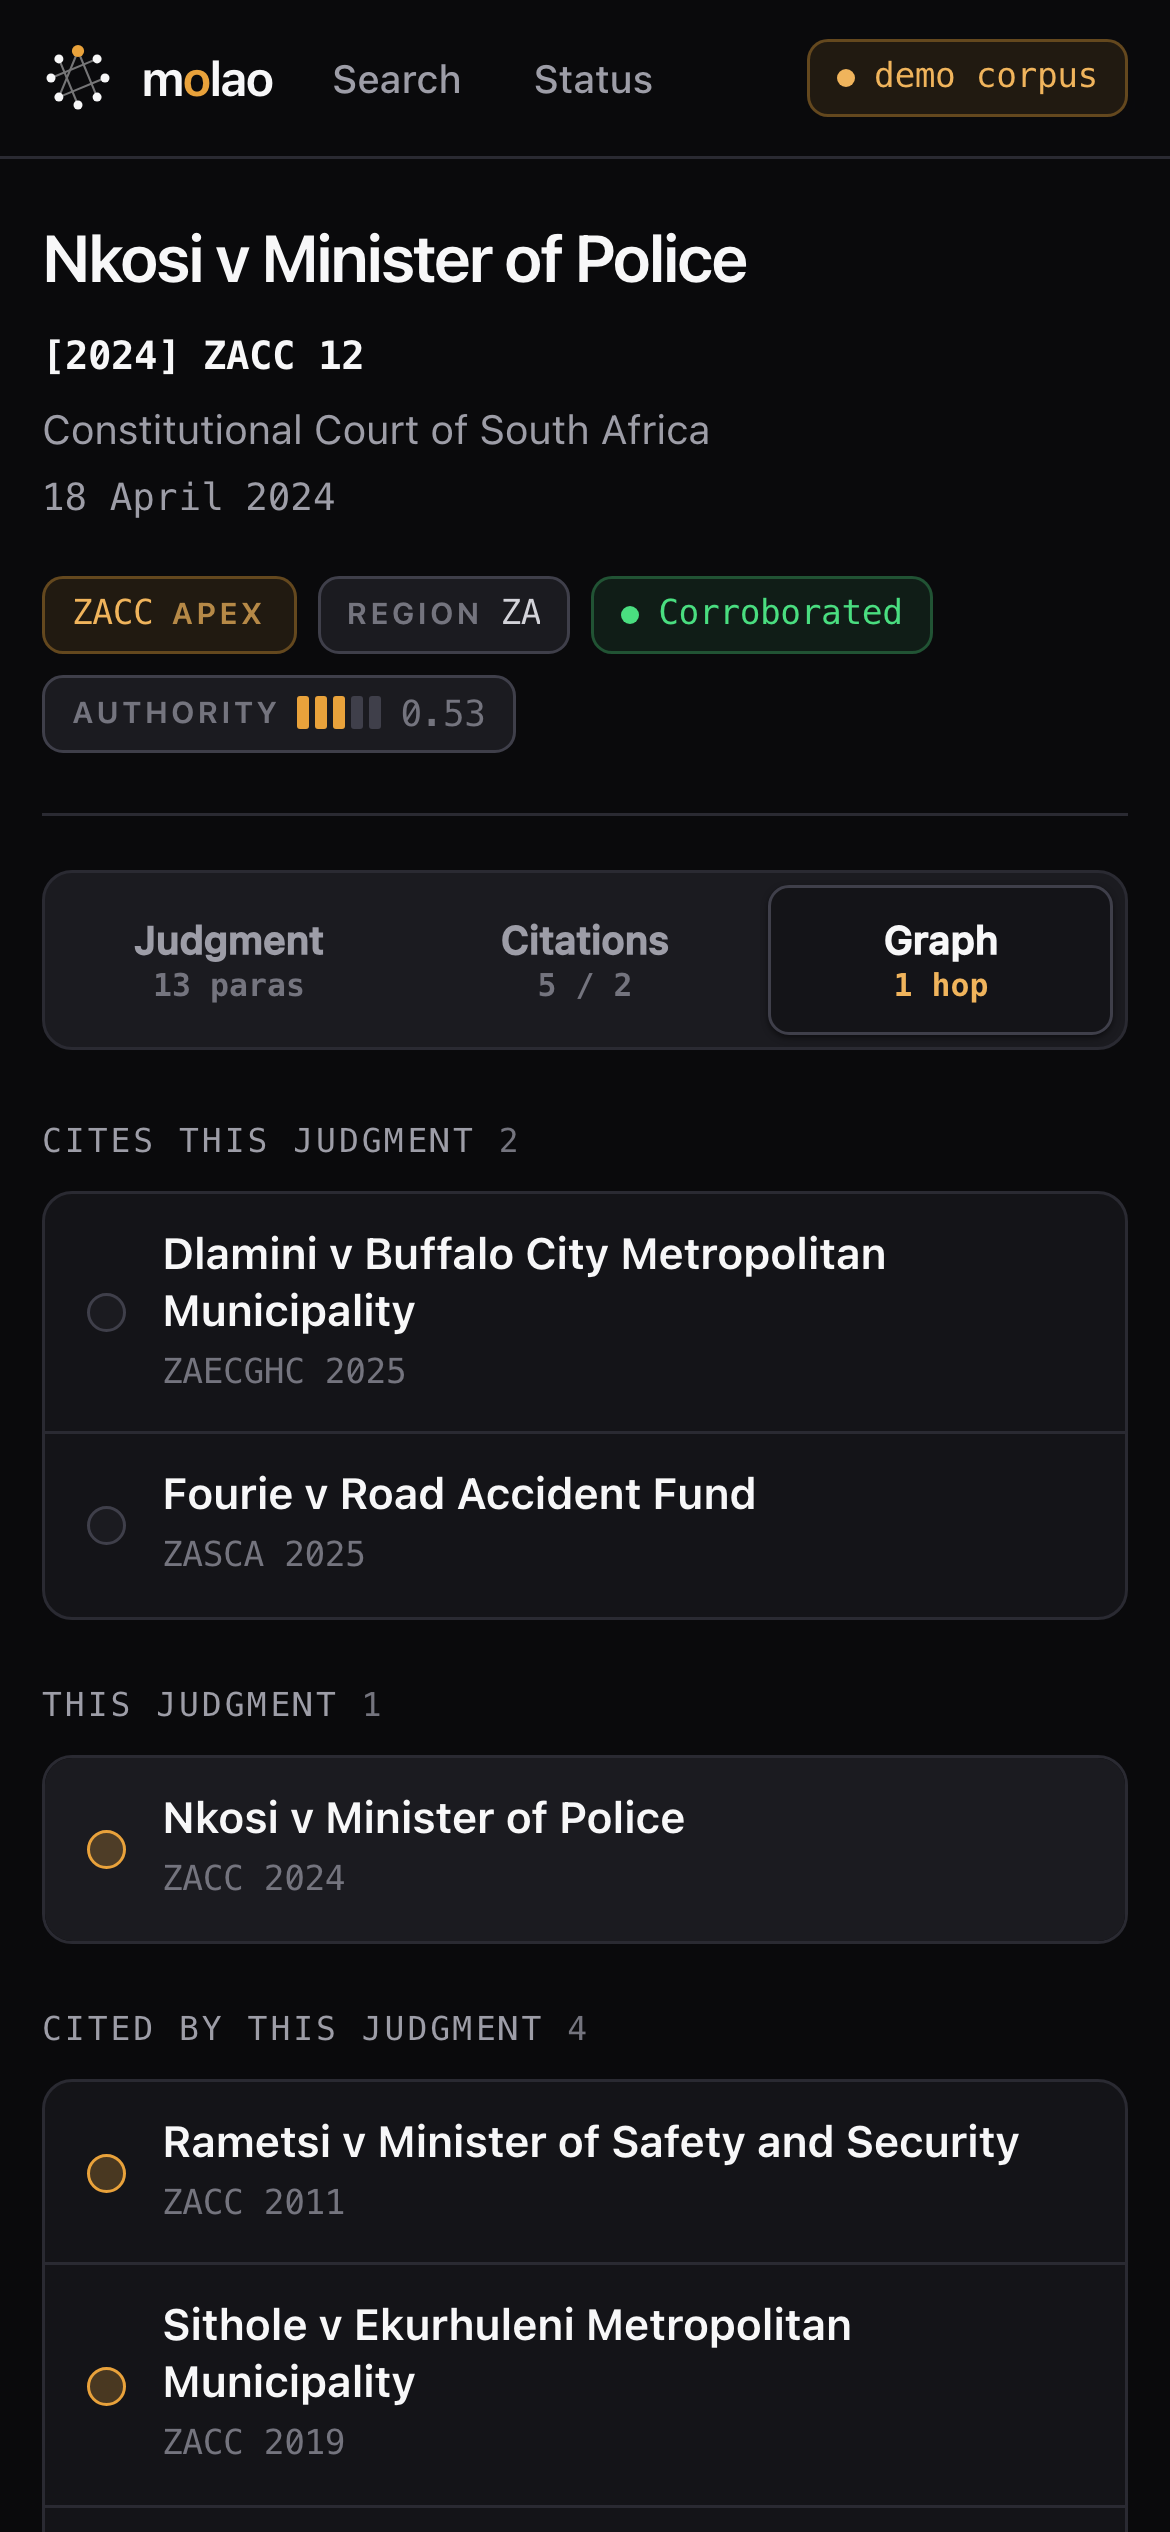
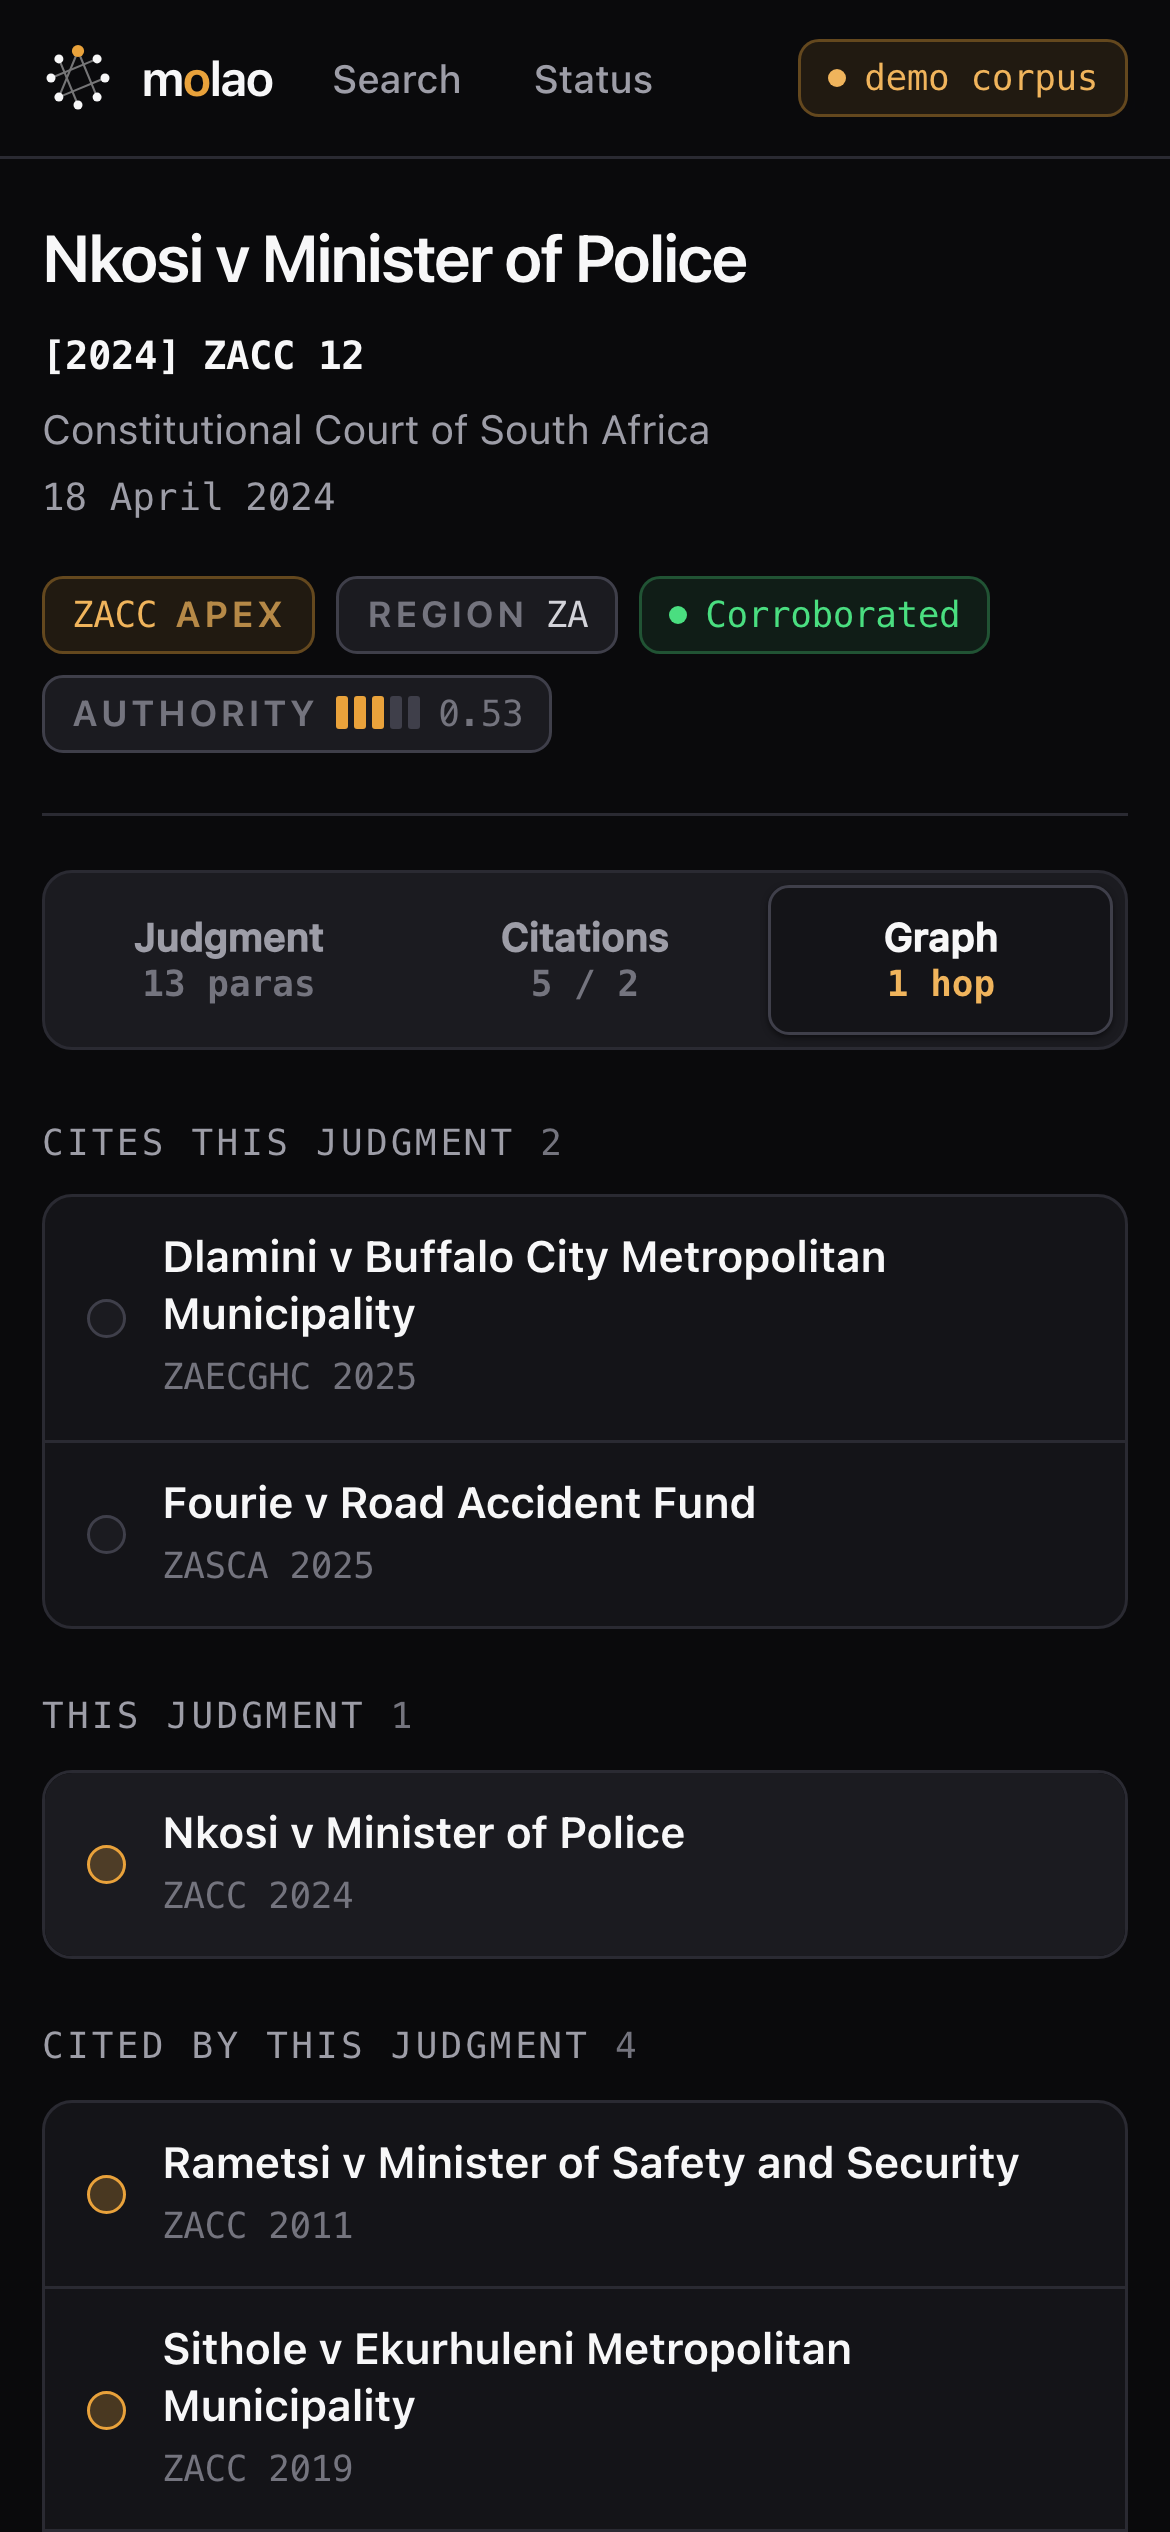
web: fix sub-12px UI type and narrow-viewport overflow, refresh screenshots
Every micro-caps label/chip/key in the web UI (.label, .chip__k, .chip__v,
th, .aside-card h2, .ledger .k, .para .num, the unresolved-citation "not
in corpus" badge, .stat .sub, .prov-hint, .lane-caption, .lane-sub,
.legend-item, .tabs .count, and the footer's honesty text on mobile) was
set below the 12px floor this suite has hit before. Raised all of them to
12px; left the two SVG graph micro-annotations (.gnode-sub, .glane-cap)
alone since their geometry is coupled to hand-tuned layout math in
Graph.tsx, not reading text.

Also found two real overflow bugs while checking 320/375/768/1024/1440:
the topbar's "demo corpus" chip pushed the whole page into horizontal
scroll at 320px (fixed by letting it wrap to its own row rather than ever
hiding the disclosure), and an unresolved citation's "as written" text
plus its badge forced the same at 320-375px on the judgment body (fixed
by allowing that one `.cite` variant to wrap instead of forcing nowrap,
while resolved citations keep nowrap since they're always short).

Regenerated all 8 screenshots and opened each to confirm no overflow,
blank, or clipped frames, and that the demo-corpus disclosure and
unresolved-citation states are still visible in every shot.

Agent-generated, machine-verified, NOT human-reviewed.

diff --git a/apps/web/src/styles.css b/apps/web/src/styles.css
@@ -183,7 +183,7 @@ h3 {
 }
 
 .label {
-  font-size: 10px;
+  font-size: 12px;
   font-weight: 650;
   letter-spacing: 0.1em;
   text-transform: uppercase;
@@ -210,7 +210,7 @@ h3 {
 }
 
 .chip__k {
-  font-size: 10px;
+  font-size: 12px;
   font-weight: 650;
   letter-spacing: 0.09em;
   text-transform: uppercase;
@@ -219,7 +219,7 @@ h3 {
 
 .chip__v {
   font-family: var(--mono);
-  font-size: 11.5px;
+  font-size: 12px;
   font-variant-numeric: tabular-nums;
   letter-spacing: -0.012em;
   overflow: hidden;
@@ -741,7 +741,7 @@ main {
 
 .tabs .count {
   font-family: var(--mono);
-  font-size: 11px;
+  font-size: 12px;
   font-variant-numeric: tabular-nums;
   color: var(--dim);
 }
@@ -788,7 +788,7 @@ main {
 }
 
 .aside-card > h2 {
-  font-size: 10px;
+  font-size: 12px;
   font-weight: 650;
   letter-spacing: 0.1em;
   text-transform: uppercase;
@@ -852,7 +852,7 @@ main {
 .ledger .k {
   display: block;
   margin-top: 2px;
-  font-size: 11px;
+  font-size: 12px;
   color: var(--muted);
 }
 
@@ -905,7 +905,7 @@ main {
 
 .para .num {
   font-family: var(--mono);
-  font-size: 11.5px;
+  font-size: 12px;
   font-variant-numeric: tabular-nums;
   color: var(--dim);
   text-align: right;
@@ -946,9 +946,16 @@ a.cite:hover {
   border-bottom-color: var(--accent);
 }
 
+/* Unlike a resolved citation (always a short "[year] court n"), an unresolved
+   one is shown as written plus its "not in corpus" badge, and "as written"
+   can run long. Nowrap on that combination was pushing the whole page into
+   horizontal scroll on a narrow phone. The citation must stay visible, not
+   force a scrollbar to stay on one line, so it wraps like the surrounding
+   prose instead — this is the one `.cite` variant that opts back out. */
 span.cite.unresolved {
   color: var(--muted);
   border-bottom: 1px dotted var(--line-strong);
+  white-space: normal;
   cursor: help;
 }
 
@@ -958,7 +965,7 @@ span.cite.unresolved::after {
   padding: 1px 4px;
   border: 1px solid var(--line-strong);
   border-radius: 3px;
-  font-size: 9.5px;
+  font-size: 12px;
   letter-spacing: 0.04em;
   text-transform: uppercase;
   color: var(--dim);
@@ -1104,7 +1111,7 @@ a.citerow:hover .name {
   gap: 7px;
   color: var(--muted);
   font-family: var(--mono);
-  font-size: 11px;
+  font-size: 12px;
 }
 
 /* The phone rendering of the citation neighbourhood. Hidden on desktop, where
@@ -1120,7 +1127,7 @@ a.citerow:hover .name {
 
 .lane-caption {
   margin: 0 0 8px;
-  font-size: 11px;
+  font-size: 12px;
   font-weight: 500;
   letter-spacing: 0.09em;
   text-transform: uppercase;
@@ -1183,7 +1190,7 @@ a.citerow:hover .name {
 }
 
 .lane-sub {
-  font-size: 11.5px;
+  font-size: 12px;
 }
 
 /* Labels carry a halo in the surface colour so an edge passing behind one
@@ -1277,7 +1284,7 @@ a.citerow:hover .name {
   display: block;
   margin-top: 5px;
   color: var(--dim);
-  font-size: 11.5px;
+  font-size: 12px;
 }
 
 .section {
@@ -1315,7 +1322,7 @@ a.citerow:hover .name {
 
 .prov-hint {
   color: var(--dim);
-  font-size: 11px;
+  font-size: 12px;
   line-height: 1.4;
 }
 
@@ -1365,7 +1372,7 @@ th {
   padding: 10px 15px;
   border-bottom: 1px solid var(--line-strong);
   background: var(--surface-2);
-  font-size: 10px;
+  font-size: 12px;
   font-weight: 650;
   letter-spacing: 0.1em;
   text-transform: uppercase;
@@ -1501,7 +1508,7 @@ td.code a:hover {
 
   .footer {
     padding: 18px 14px 24px;
-    font-size: 11.5px;
+    font-size: 12px;
   }
 
   .search-field {
@@ -1596,7 +1603,7 @@ td.code a:hover {
   }
 
   .tabs .count {
-    font-size: 10.5px;
+    font-size: 12px;
   }
 
   .para {
@@ -1643,6 +1650,28 @@ td.code a:hover {
 
   .state {
     padding: 40px 8px;
+  }
+}
+
+/* ---- narrowest phones (down to 320px) ------------------------------------
+   Brand and nav already fit at 320px; the demo-corpus disclosure did not —
+   the topbar forced the page into horizontal scroll to keep it on one line.
+   It never gets to disappear to fix that: it drops to a row of its own. */
+@media (max-width: 340px) {
+  .topbar-in {
+    flex-wrap: wrap;
+    height: auto;
+    padding: 8px 14px;
+    row-gap: 8px;
+  }
+
+  .topbar-in .spacer {
+    flex-basis: 100%;
+    height: 0;
+  }
+
+  .topbar .meta {
+    width: 100%;
   }
 }
 
